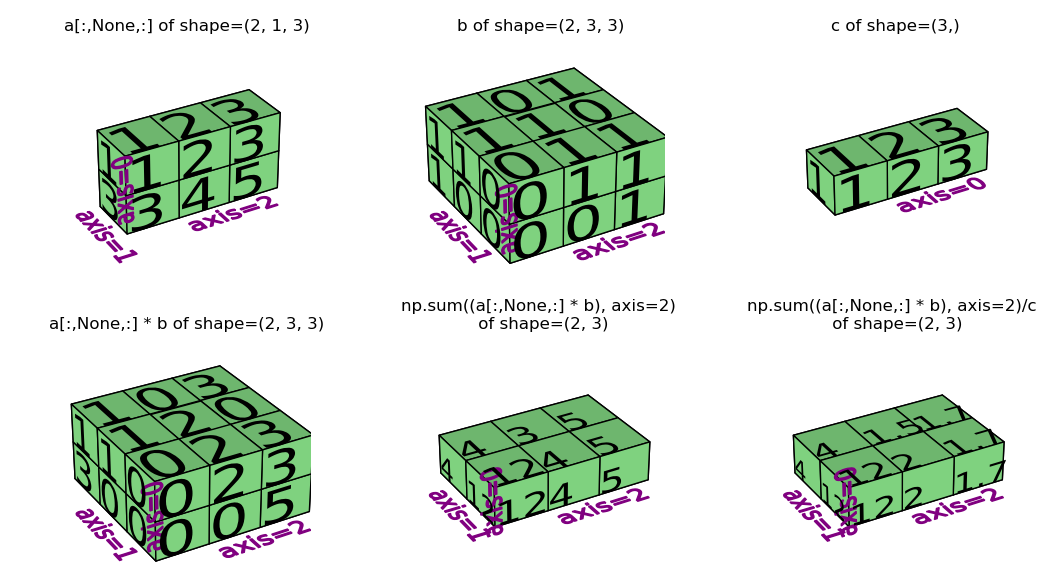
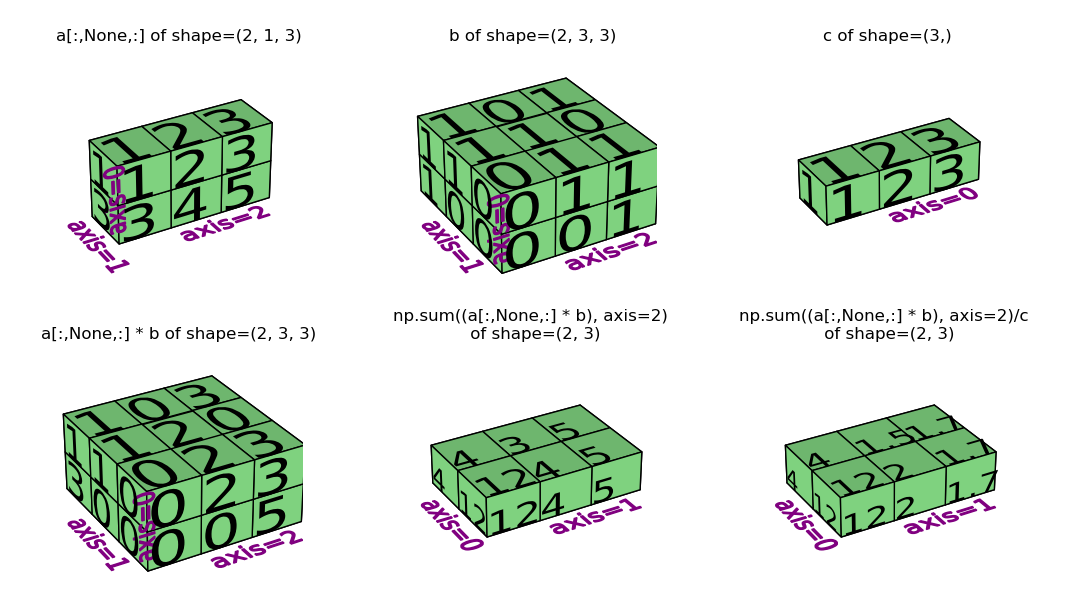
update: fix of pictures 5 and 6 of sputnik5

diff --git a/sputnik_scripts/sputnik5.py b/sputnik_scripts/sputnik5.py
@@ -43,7 +43,7 @@ arr = np.sum((a[:,None,:] * b), axis=2)
 va5 = VisualArray(arr, fig=fig, ax=ax)
 va5.ax.set_title(f'np.sum((a[:,None,:] * b), axis=2) \n of shape=(2, 3)')
 va5.set_colors(va5.get_indices().T, color='lightgreen', basecolor='aqua')
-va5.vizualize(fixview=True, usetex=False, scale=0.8)
+va5.vizualize(fixview=True, axis_labels=(None, 'axis=0', 'axis=1'), usetex=False, scale=0.8)
 va5.ax.dist = 12
 
 ax = fig.add_subplot(2, 3, 6, projection='3d')
@@ -52,7 +52,7 @@ va6 = VisualArray(arr, fig=fig, ax=ax)
 va6.arr = np.array([[[format(n, '.10g') for n in m] for m in o] for o in va6.arr])
 va6.ax.set_title(f'np.sum((a[:,None,:] * b), axis=2)/c \n of shape=(2, 3)')
 va6.set_colors(va6.get_indices().T, color='lightgreen', basecolor='aqua')
-va6.vizualize(fixview=True, usetex=False, scale=0.7)
+va6.vizualize(fixview=True, axis_labels=(None, 'axis=0', 'axis=1'), usetex=False, scale=0.7)
 va6.ax.dist = 12
 plt.get_current_fig_manager().window.state('zoomed')
 plt.show()
